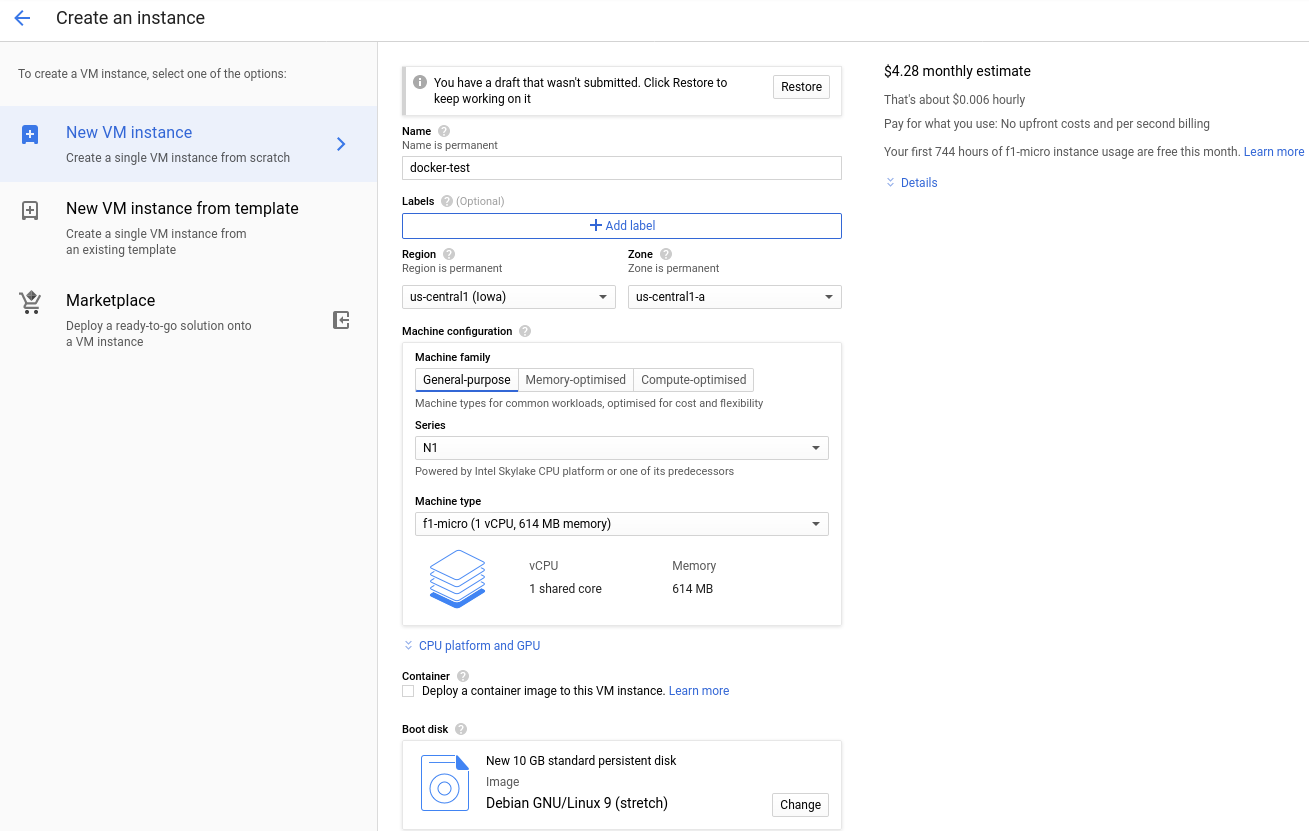
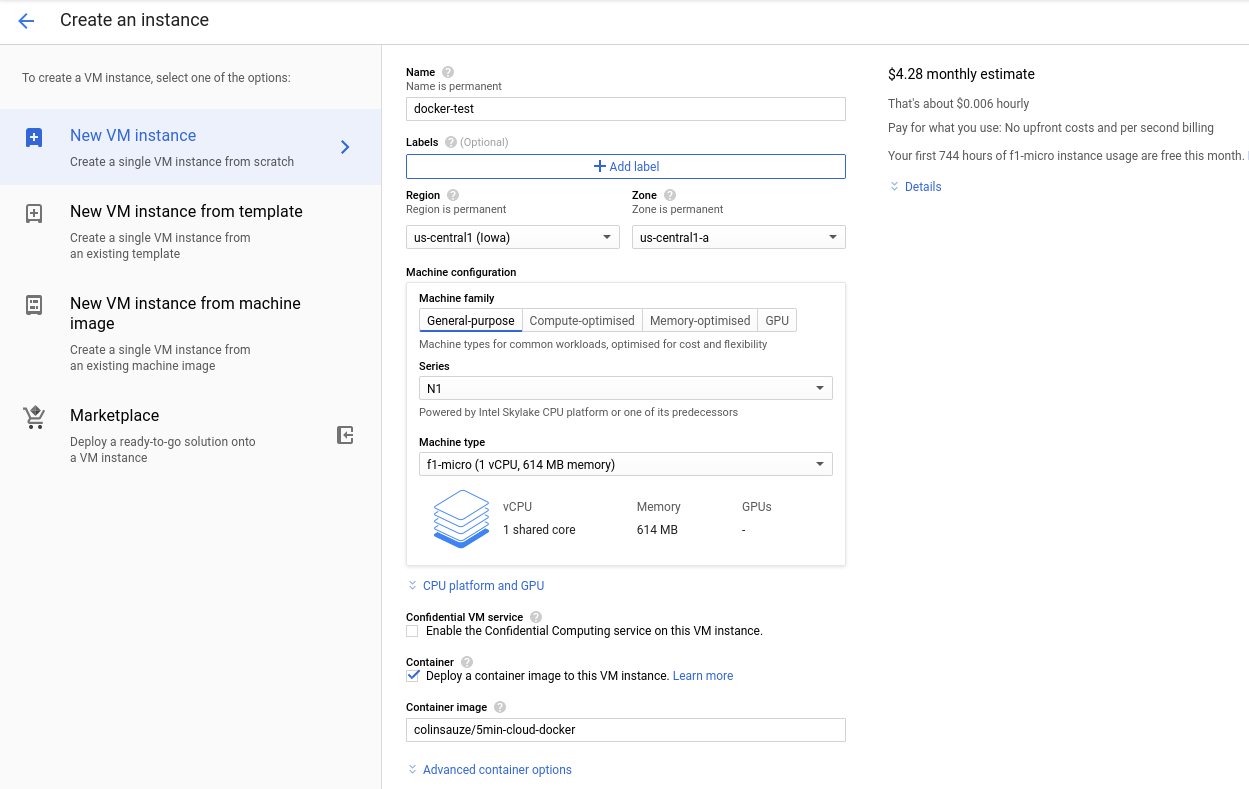
updating screenshots and removing need to manually deploy container on google cloud

diff --git a/README.md b/README.md
@@ -39,9 +39,6 @@ Run:
 
 ## Deploy on Google Cloud
 
-Google cloud has an option to deploy a container directly but it doesn't allow any network services like web servers running in that container to be accessed from the internet. Instead we will have to create a standard VM and manually run docker on it.
-
-
 * Go to the [Google Cloud Console](https://console.cloud.google.com/)
 * Click on the grill menu in the top left, choose "Compute Engine" and then click "VM Instances". 
 
@@ -50,26 +47,13 @@ Google cloud has an option to deploy a container directly but it doesn't allow a
 * Click on "Create Instance" on the page showing the list of current instances.
 * Give your VM a name, as we won't need much processing power choose f1-micro as the Machine type. 
 
-![Create an instance](screenshots/gcloud_step2.png)
-
-* Click "Change" on the Boot disk and choose "Container Optimized OS"
-
 ![Cloud OS](screenshots/gcloud_step3.png)
 
-* Tick "Allow HTTP traffic" at the bottom of the page under Firewall
+* Scrolldown and tick "Allow HTTP traffic" at the bottom of the page under Firewall
 
 ![Allow HTTP](screenshots/gcloud_step4.png)
 
 * Click create
-* Once created SSH into the VM by clicking the SSH option in the Connect column of the VM list.
-
-![SSH to VM](screenshots/gcloud_step5.png)
-![SSH to VM](screenshots/gcloud_step6.png)
-
-* In the SSH session type: `docker run --name webserver --restart always -d -p 80:80 username/5min-cloud-docker`
-This will download the image and start it running. The `--restart always` option means it will restart auomatically when the VM reboots.
-
-![Docker run command](screenshots/gcloud_step7.png)
 
 * Go back to the VM Instances page in the Google Cloud Console and click on the link to the external IP address (104.154.185.63 in this example) or type this address into a new tab/window of your web browser.
 
@@ -81,6 +65,14 @@ This will download the image and start it running. The `--restart always` option
 
 * Don't forget to delete the instance when you are done with it.
 
+* If for whatever reason you need to login to the instane then click on the SSH option under the connect column in the VM Instances page and choose "Open in browser Window."
+
+![SSH to VM](screenshots/gcloud_step5.png)
+![SSH to VM](screenshots/gcloud_step6.png)
+
+* From here you can run docker commands and see the container we specified is running.
+
+![SSH to VM](screenshots/gcloud_step7.png)
 
 ## Deploy on Azure
 
